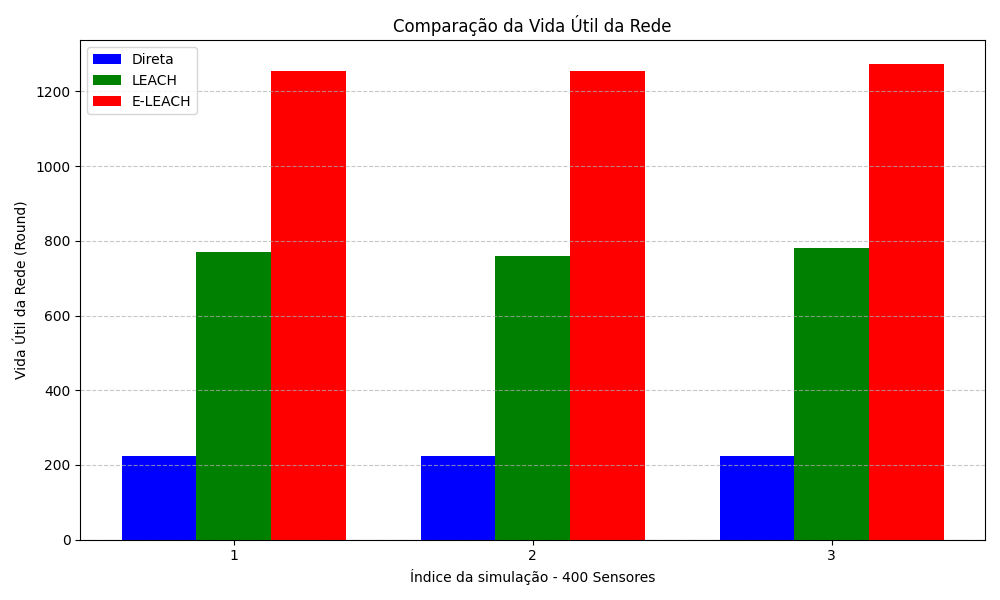
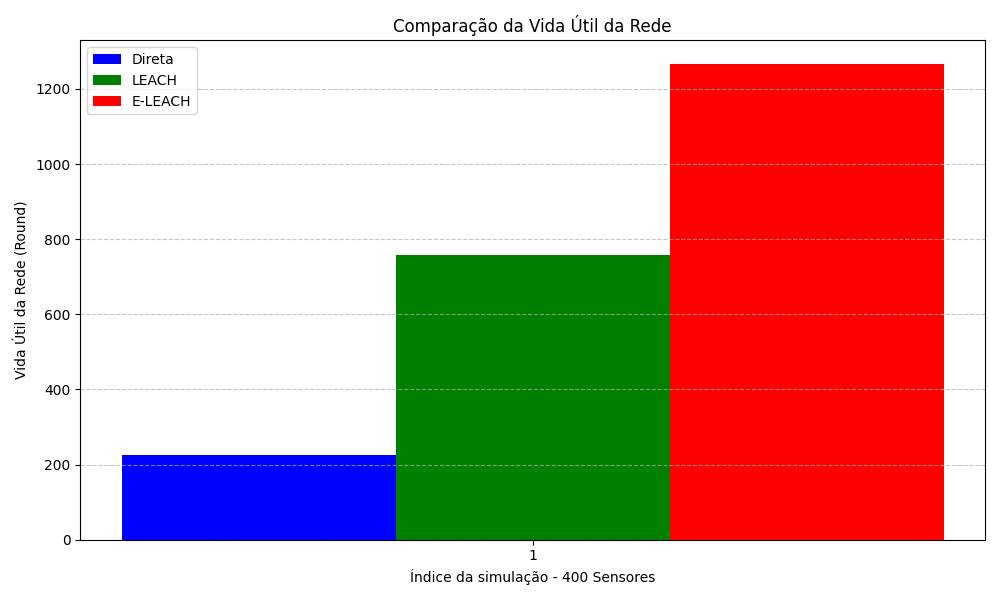
Adiciona interface para facilidade de uso

diff --git a/code/main.py b/code/main.py
@@ -2,36 +2,33 @@ from direto import simulate_direct_communication
 from LEACH import simulate_leach
 from ELEACH import simulate_eleach
 import matplotlib.pyplot as plt
-import numpy as np
+import os.path
 
-def calcular_vida_util(alive_list):
-    # Conta quantas rodadas ainda havia nós vivos
-    alive_filtered = list(filter(lambda n: n != 0, alive_list))
-    return len(alive_filtered)
-
-if __name__ == "__main__":
-    ARQUIVO_COORDENADAS = "../dataset/400.txt"
-    NUM_RODADAS = 200 # altere
-    NUM_SIMULACOES = 3  # Quantidade de simulações
-
+def plota_informacoes_com_vida_util(NUM_RODADAS, ARQUIVO_COORDENADAS):
     # Simulações
-    _, _, alive_direct, energy_direct, media_vida_direct, first_node_death_round_direct = simulate_direct_communication(
+    _, _, alive_direct, energy_direct, media_vida_direct, _ = simulate_direct_communication(
         file_path=ARQUIVO_COORDENADAS,
-        num_rounds=NUM_RODADAS
+        num_rounds=NUM_RODADAS,
     )
 
-    _, _, alive_leach, energy_leach, media_vida_leach, first_node_death_round_leach = simulate_leach(
+    _, _, alive_leach, energy_leach, media_vida_leach, _ = simulate_leach(
         file_path=ARQUIVO_COORDENADAS,
-        num_rounds=NUM_RODADAS
+        num_rounds=NUM_RODADAS,
     )
 
-    _, _, alive_eleach, energy_eleach, media_vida_eleach, first_node_death_round_eleach = simulate_eleach(
+    _, _, alive_eleach, energy_eleach, media_vida_eleach, _ = simulate_eleach(
         file_path=ARQUIVO_COORDENADAS,
-        num_rounds=NUM_RODADAS
+        num_rounds=NUM_RODADAS,
     )
 
-    # Rodadas (eixo X)
-    round_axis = range(1, NUM_RODADAS + 1)
+    # Calcula a vida útil para cada abordagem
+    vida_direct = calcular_vida_util(alive_direct)
+    vida_leach = calcular_vida_util(alive_leach)
+    vida_eleach = calcular_vida_util(alive_eleach)
+
+    # Determina o limite do eixo X com base na menor vida útil
+    menor_vida_util = min(vida_direct, vida_leach, vida_eleach)
+    round_axis = range(1, menor_vida_util + 1)
 
     # Definindo cores fixas para os protocolos
     colors = {
@@ -43,94 +40,78 @@ if __name__ == "__main__":
     # Criação da figura com 2 linhas e 2 colunas
     plt.figure(figsize=(14, 10))
 
-    # Subplot 1: Nós Vivos
-    #plt.subplot(2, 2, 1)
-    # plt.plot(round_axis, alive_direct, label='Direta', linestyle='-', marker='.', color=colors['Direta'])
-    # plt.plot(round_axis, alive_leach, label='LEACH', linestyle='--', marker='x', color=colors['LEACH'])
-    # plt.plot(round_axis, alive_eleach, label='E-LEACH', linestyle='-.', marker='o', color=colors['E-LEACH'])
-    # plt.title('Nós Vivos por Rodada')
-    # plt.xlabel('Rodada')
-    # plt.ylabel('Número de Nós Vivos')
-    # plt.grid(True)
-    # plt.legend()
-
-    # # Subplot 2: Energia Média
-    # plt.subplot(2, 2, 2)
-    # plt.plot(round_axis, energy_direct, label='Direta', linestyle='-', marker='.', color=colors['Direta'])
-    # plt.plot(round_axis, energy_leach, label='LEACH', linestyle='--', marker='x', color=colors['LEACH'])
-    # plt.plot(round_axis, energy_eleach, label='E-LEACH', linestyle='-.', marker='o', color=colors['E-LEACH'])
-    # plt.title('Energia Média por Rodada (Sensores Vivos)')
-    # plt.xlabel('Rodada')
-    # plt.ylabel('Energia Média (J)')
-    # plt.grid(True)
-    # plt.legend()
-
-    # # Subplot 3: Média de Vida dos Nós
-    # plt.subplot(2, 2, 3)
+    # Subplot 4: Vida Útil da Rede
+    plt.subplot(2, 2, 4)
     protocolos = ['Direta', 'LEACH', 'E-LEACH']
+    vidas = [vida_direct, vida_leach, vida_eleach]
+    plt.bar(protocolos, vidas, color=[colors[p] for p in protocolos])
+    plt.title('Vida Útil da Rede')
+    plt.ylabel('Rodadas')
+    plt.grid(axis='y')
+
+    # Subplot 2: Nós Vivos
+    plt.subplot(2, 2, 1)
+    plt.plot(round_axis, alive_direct[:menor_vida_util], label='Direta', linestyle='-', marker='.', color=colors['Direta'])
+    plt.plot(round_axis, alive_leach[:menor_vida_util], label='LEACH', linestyle='--', marker='x', color=colors['LEACH'])
+    plt.plot(round_axis, alive_eleach[:menor_vida_util], label='E-LEACH', linestyle='-.', marker='o', color=colors['E-LEACH'])
+    plt.title('Nós Vivos por Rodada')
+    plt.xlabel('Rodada')
+    plt.ylabel('Número de Nós Vivos')
+    plt.grid(True)
+    plt.legend()
+
+    # Subplot 3: Energia Média
+    plt.subplot(2, 2, 2)
+    plt.plot(round_axis, energy_direct[:menor_vida_util], label='Direta', linestyle='-', marker='.', color=colors['Direta'])
+    plt.plot(round_axis, energy_leach[:menor_vida_util], label='LEACH', linestyle='--', marker='x', color=colors['LEACH'])
+    plt.plot(round_axis, energy_eleach[:menor_vida_util], label='E-LEACH', linestyle='-.', marker='o', color=colors['E-LEACH'])
+    plt.title('Energia Média por Rodada (Sensores Vivos)')
+    plt.xlabel('Rodada')
+    plt.ylabel('Energia Média (J)')
+    plt.grid(True)
+    plt.legend()
+
+    # Subplot 1: Média de Vida dos Nós
+    plt.subplot(2, 2, 3)
     medias_vida = [media_vida_direct, media_vida_leach, media_vida_eleach]
     plt.bar(protocolos, medias_vida, color=[colors[p] for p in protocolos])
     plt.title('Média de Rodadas Vividas por Sensor')
     plt.ylabel('Rodadas')
     plt.grid(axis='y')
 
-    # # Subplot 4: Rodada da Morte do Primeiro Nó (FND)
-    # plt.subplot(2, 2, 4)
-    # first_node_deaths = [first_node_death_round_direct, first_node_death_round_leach, first_node_death_round_eleach]
-    # plt.bar(protocolos, first_node_deaths, color=[colors[p] for p in protocolos])
-    # plt.title('Rodada da Morte do Primeiro Nó')
-    # plt.ylabel('Rodada')
-    # plt.grid(axis='y')
-
     # Ajusta layout e salva
     plt.tight_layout()
-    plt.savefig(f"../results/comparacao_protocolos_2x2_MEDIA_VIVA_{ARQUIVO_COORDENADAS.replace('.txt', '').replace('../dataset/', '')}.png")
-    print("\nGráfico salvo como 'comparacao_protocolos_2x2.png'")
-    print(alive_direct[-1], alive_leach[-1], alive_eleach[-1])
+    nome_base = ARQUIVO_COORDENADAS.replace('.txt', '').replace('../dataset/', '')
+    plt.savefig(f"../results/comparacao_protocolos_2x2_MEDIA_VIVA_{nome_base}.png")
+    print(f"\nGráfico salvo como 'comparacao_protocolos_2x2_MEDIA_VIVA_{nome_base}.png'")
+    print(f"Vida útil (últimos nós vivos): Direta={vida_direct}, LEACH={vida_leach}, E-LEACH={vida_eleach}")
+    plt.show()
 
-    # vidas_direct = []
-    # vidas_leach = []
-    # vidas_eleach = []
+    return round(max(vida_direct, vida_leach, vida_eleach))
 
-    # for i in range(NUM_SIMULACOES):
-    #     print(f"Simulação {i+1} de {NUM_SIMULACOES}...")
+def calcular_vida_util(alive_list):
+    # Conta quantas rodadas ainda havia nós vivos
+    alive_filtered = list(filter(lambda n: n != 0, alive_list))
+    return len(alive_filtered)
 
-    #     _, _, alive_direct, _, _, _ = simulate_direct_communication(
-    #         file_path=ARQUIVO_COORDENADAS,
-    #         num_rounds=NUM_RODADAS
-    #     )
+def main():
+    print('**Caso deseje adicionar novos arquivos, inclua-os à pasta "dataset" com o nome "quantidade de sensores".txt**')
+    print('Inicialmente, estão disponíveis quatro arquivos com 50, 100, 200 e 400 sensores.')
+    quantidade_sensores = input('Digite a quantidade de sensores desejada (50, 100, 200, 400): ')
 
-    #     _, _, alive_leach, _, _, _ = simulate_leach(
-    #         file_path=ARQUIVO_COORDENADAS,
-    #         num_rounds=NUM_RODADAS
-    #     )
+    ARQUIVO_COORDENADAS=f"../dataset/{quantidade_sensores}.txt"
 
-    #     _, _, alive_eleach, _, _, _ = simulate_eleach(
-    #         file_path=ARQUIVO_COORDENADAS,
-    #         num_rounds=NUM_RODADAS
-    #     )
+    if not os.path.isfile(ARQUIVO_COORDENADAS):
+        print('Arquivo não encontrado.')
+        return
 
-    #     vidas_direct.append(calcular_vida_util(alive_direct))
-    #     vidas_leach.append(calcular_vida_util(alive_leach))
-    #     vidas_eleach.append(calcular_vida_util(alive_eleach))
+    try:
+        NUM_RODADAS = int(input('Digite a quantidade de rodadas: '))
+    except:
+        print('Quantidade de rodadas inválida.')
+        return
 
-    # # Configuração do gráfico de barras agrupadas
-    # indices = np.arange(NUM_SIMULACOES)
-    # largura_barra = 0.25
+    plota_informacoes_com_vida_util(NUM_RODADAS, ARQUIVO_COORDENADAS)
 
-    # plt.figure(figsize=(10, 6))
-
-    # # Ordem: Direta (esquerda, azul), LEACH (meio, verde), E-LEACH (direita, vermelho)
-    # plt.bar(indices - largura_barra, vidas_direct, width=largura_barra, label='Direta', color='blue')
-    # plt.bar(indices, vidas_leach, width=largura_barra, label='LEACH', color='green')
-    # plt.bar(indices + largura_barra, vidas_eleach, width=largura_barra, label='E-LEACH', color='red')
-
-    # plt.xlabel(f"Índice da simulação - {ARQUIVO_COORDENADAS.replace('.txt', '').replace('../dataset/', '')} Sensores")
-    # plt.ylabel('Vida Útil da Rede (Round)')
-    # plt.title('Comparação da Vida Útil da Rede')
-    # plt.xticks(indices, [str(i + 1) for i in indices])
-    # plt.legend()
-    # plt.grid(axis='y', linestyle='--', alpha=0.7)
-    # plt.tight_layout()
-    # plt.savefig(f"../results/vida_util_barras_simulacoes_{ARQUIVO_COORDENADAS.replace('.txt', '').replace('../dataset/', '')}.png")
-    # plt.show()
+if __name__ == "__main__":
+    main()

diff --git a/code/direto.py b/code/direto.py
@@ -18,7 +18,7 @@ PACKET_SIZE = 2000  # bits (Tamanho do pacote)
 INITIAL_ENERGY = 2.0 # Joules (Energia inicial dos nós)
 E_SENSE = 8e-5
 E_SLEEP = 15e-10
-NETWORK_FUNCTIONAL_THRESHOLD = 0 # 20% dos nós devem estar vivos para considerar a rede funcional sem problemas (comparação justa)
+NETWORK_FUNCTIONAL_THRESHOLD = 0.2
 
 class SensorNode:
     def __init__(self, node_id, x, y, base_station):
@@ -240,45 +240,3 @@ def show_final_results(nodes, base_station):
         print(f"Energia média final dos nós vivos: {avg_energy_alive:.6f} J")
     else:
         print("Nenhum nó sobreviveu.")
-
-# --- Exemplo de Uso --- 
-if __name__ == "__main__":
-    # Parâmetros da Simulação (semelhantes ao EESRA para comparação)
-    ARQUIVO_COORDENADAS = "400.txt"
-    NUM_RODADAS = 300       # Número máximo de rodadas
-
-    nodes, bs, alive_hist, energy_hist, media_vida_nos, first_node_death_round = simulate_direct_communication(
-        file_path= ARQUIVO_COORDENADAS,
-        num_rounds=NUM_RODADAS
-    )
-
-    # Geração de gráficos
-    try:
-        import matplotlib.pyplot as plt
-        
-        rounds_executed = len(alive_hist)
-        round_axis = range(1, rounds_executed + 1)
-
-        plt.figure(figsize=(12, 5))
-
-        plt.subplot(1, 2, 1)
-        plt.plot(round_axis, alive_hist, marker='.')
-        plt.title('Nós Vivos por Rodada')
-        plt.xlabel('Rodada')
-        plt.ylabel('Número de Nós Vivos')
-        plt.grid(True)
-
-        plt.subplot(1, 2, 2)
-        plt.plot(round_axis, energy_hist, marker='.', color='orange')
-        plt.title('Energia Média por Rodada (Nós Vivos)')
-        plt.xlabel('Rodada')
-        plt.ylabel('Energia Média (J)')
-        plt.grid(True)
-
-        plt.tight_layout()
-        plt.savefig("comunicacao_direta_resultados.png")
-        print("\nGráficos salvos em 'comunicacao_direta_resultados.png'")
-        #plt.show() # Descomente para mostrar o gráfico interativamente
-
-    except ImportError:
-        print("\nMatplotlib não encontrado. Instale com 'pip install matplotlib' para gerar gráficos.")

diff --git a/code/ELEACH.py b/code/ELEACH.py
@@ -16,7 +16,7 @@ INITIAL_ENERGY = 2.0 # Joules (Energia inicial dos nós)
 P = 0.3             # Probabilidade de um nó se tornar CH (fixa)
 E_SENSE = 8e-5    #Joules por segundo (energia do sensoriamento)
 E_SLEEP = 15e-10  #Joules por intervalor de sleep
-NETWORK_FUNCTIONAL_THRESHOLD = 0 # 20% dos nós devem estar vivos para considerar a rede funcional sem problemas (comparação justa)
+NETWORK_FUNCTIONAL_THRESHOLD = 0.2
 
 # A rede é modelada em forma de um grafo ponderado. A classe SensorNode é considerada o vértice do grafo
 # e a aresta é calculada dinâmicamente baseado na distância entre ERB, CH ou Sensor comum.
@@ -397,42 +397,3 @@ def show_final_results(nodes, base_station):
         print(f"Energia média final dos nós vivos: {avg_energy_alive:.6f} J")
     else:
         print("Nenhum nó sobreviveu.")
-
-# --- Execução Principal --- 
-if __name__ == "__main__":
-    ARQUIVO_COORDENADAS = "400.txt"
-    NUM_RODADAS = 300
-
-    nodes, bs, alive_hist, energy_hist, media_vida_nos, first_node_death_round = simulate_eleach(
-        file_path=ARQUIVO_COORDENADAS,
-        num_rounds=NUM_RODADAS
-    )
-
-    try:
-        import matplotlib.pyplot as plt
-        
-        rounds_executed = len(alive_hist)
-        round_axis = range(1, rounds_executed + 1)
-
-        plt.figure(figsize=(12, 5))
-
-        plt.subplot(1, 2, 1)
-        plt.plot(round_axis, alive_hist, marker='.')
-        plt.title('Nós Vivos por Rodada')
-        plt.xlabel('Rodada')
-        plt.ylabel('Número de Nós Vivos')
-        plt.grid(True)
-
-        plt.subplot(1, 2, 2)
-        plt.plot(round_axis, energy_hist, marker='.', color='orange')
-        plt.title('Energia Média por Rodada (Nós Vivos)')
-        plt.xlabel('Rodada')
-        plt.ylabel('Energia Média (J)')
-        plt.grid(True)
-
-        plt.tight_layout()
-        plt.savefig("ELEACH.png")
-        print("\nGráficos salvos em 'ELEACH.png'")
-
-    except ImportError:
-        print("\nMatplotlib não encontrado. Gráficos não gerados.")

diff --git a/code/LEACH.py b/code/LEACH.py
@@ -16,7 +16,7 @@ INITIAL_ENERGY = 2.0 # Joules (Energia inicial dos nós)
 P = 0.3             # Probabilidade de um nó se tornar CH (fixa)
 E_SENSE = 8e-5    #Joules por segundo (energia do sensoriamento)
 E_SLEEP = 15e-10  #Joules por intervalor de sleep
-NETWORK_FUNCTIONAL_THRESHOLD = 0 # 20% dos nós devem estar vivos para considerar a rede funcional sem problemas (comparação justa)
+NETWORK_FUNCTIONAL_THRESHOLD = 0.2
 
 # A rede é modelada em forma de um grafo ponderado. A classe SensorNode é considerada o vértice do grafo
 # e a aresta é calculada dinâmicamente baseado na distância entre ERB, CH ou Sensor comum.
@@ -391,42 +391,3 @@ def show_final_results(nodes, base_station):
         print(f"Energia média final dos nós vivos: {avg_energy_alive:.6f} J")
     else:
         print("Nenhum nó sobreviveu.")
-
-# --- Execução Principal --- 
-if __name__ == "__main__":
-    ARQUIVO_COORDENADAS = "400.txt"
-    NUM_RODADAS = 300
-
-    nodes, bs, alive_hist, energy_hist, media_vida_nos, first_node_death_round = simulate_leach(
-        file_path=ARQUIVO_COORDENADAS,
-        num_rounds=NUM_RODADAS
-    )
-
-    try:
-        import matplotlib.pyplot as plt
-        
-        rounds_executed = len(alive_hist)
-        round_axis = range(1, rounds_executed + 1)
-
-        plt.figure(figsize=(12, 5))
-
-        plt.subplot(1, 2, 1)
-        plt.plot(round_axis, alive_hist, marker='.')
-        plt.title('Nós Vivos por Rodada')
-        plt.xlabel('Rodada')
-        plt.ylabel('Número de Nós Vivos')
-        plt.grid(True)
-
-        plt.subplot(1, 2, 2)
-        plt.plot(round_axis, energy_hist, marker='.', color='orange')
-        plt.title('Energia Média por Rodada (Nós Vivos)')
-        plt.xlabel('Rodada')
-        plt.ylabel('Energia Média (J)')
-        plt.grid(True)
-
-        plt.tight_layout()
-        plt.savefig("LEACH.png")
-        print("\nGráficos salvos em 'LEACH.png'")
-
-    except ImportError:
-        print("\nMatplotlib não encontrado. Gráficos não gerados.")
